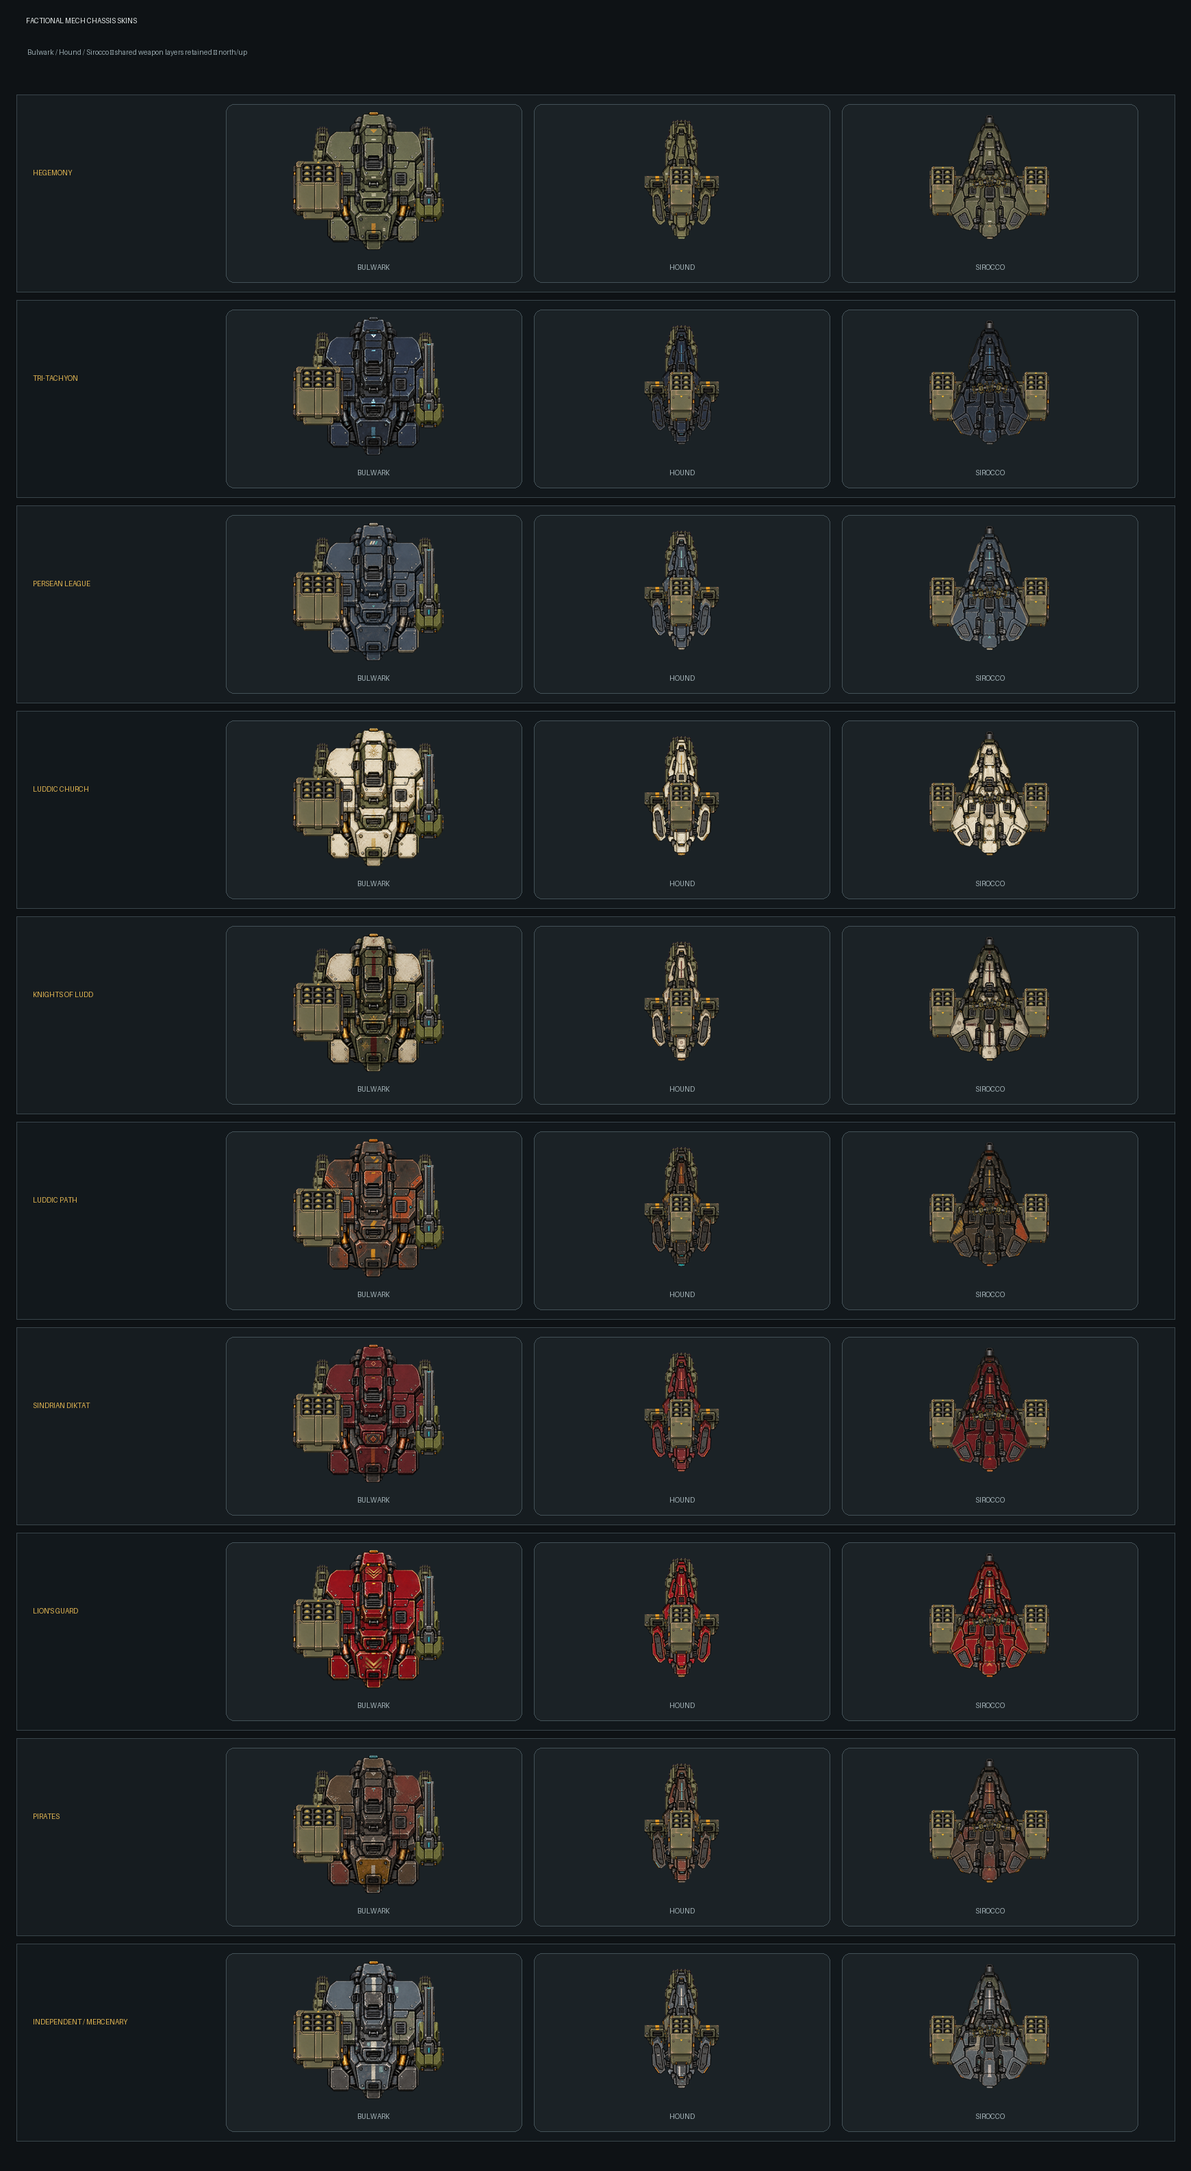
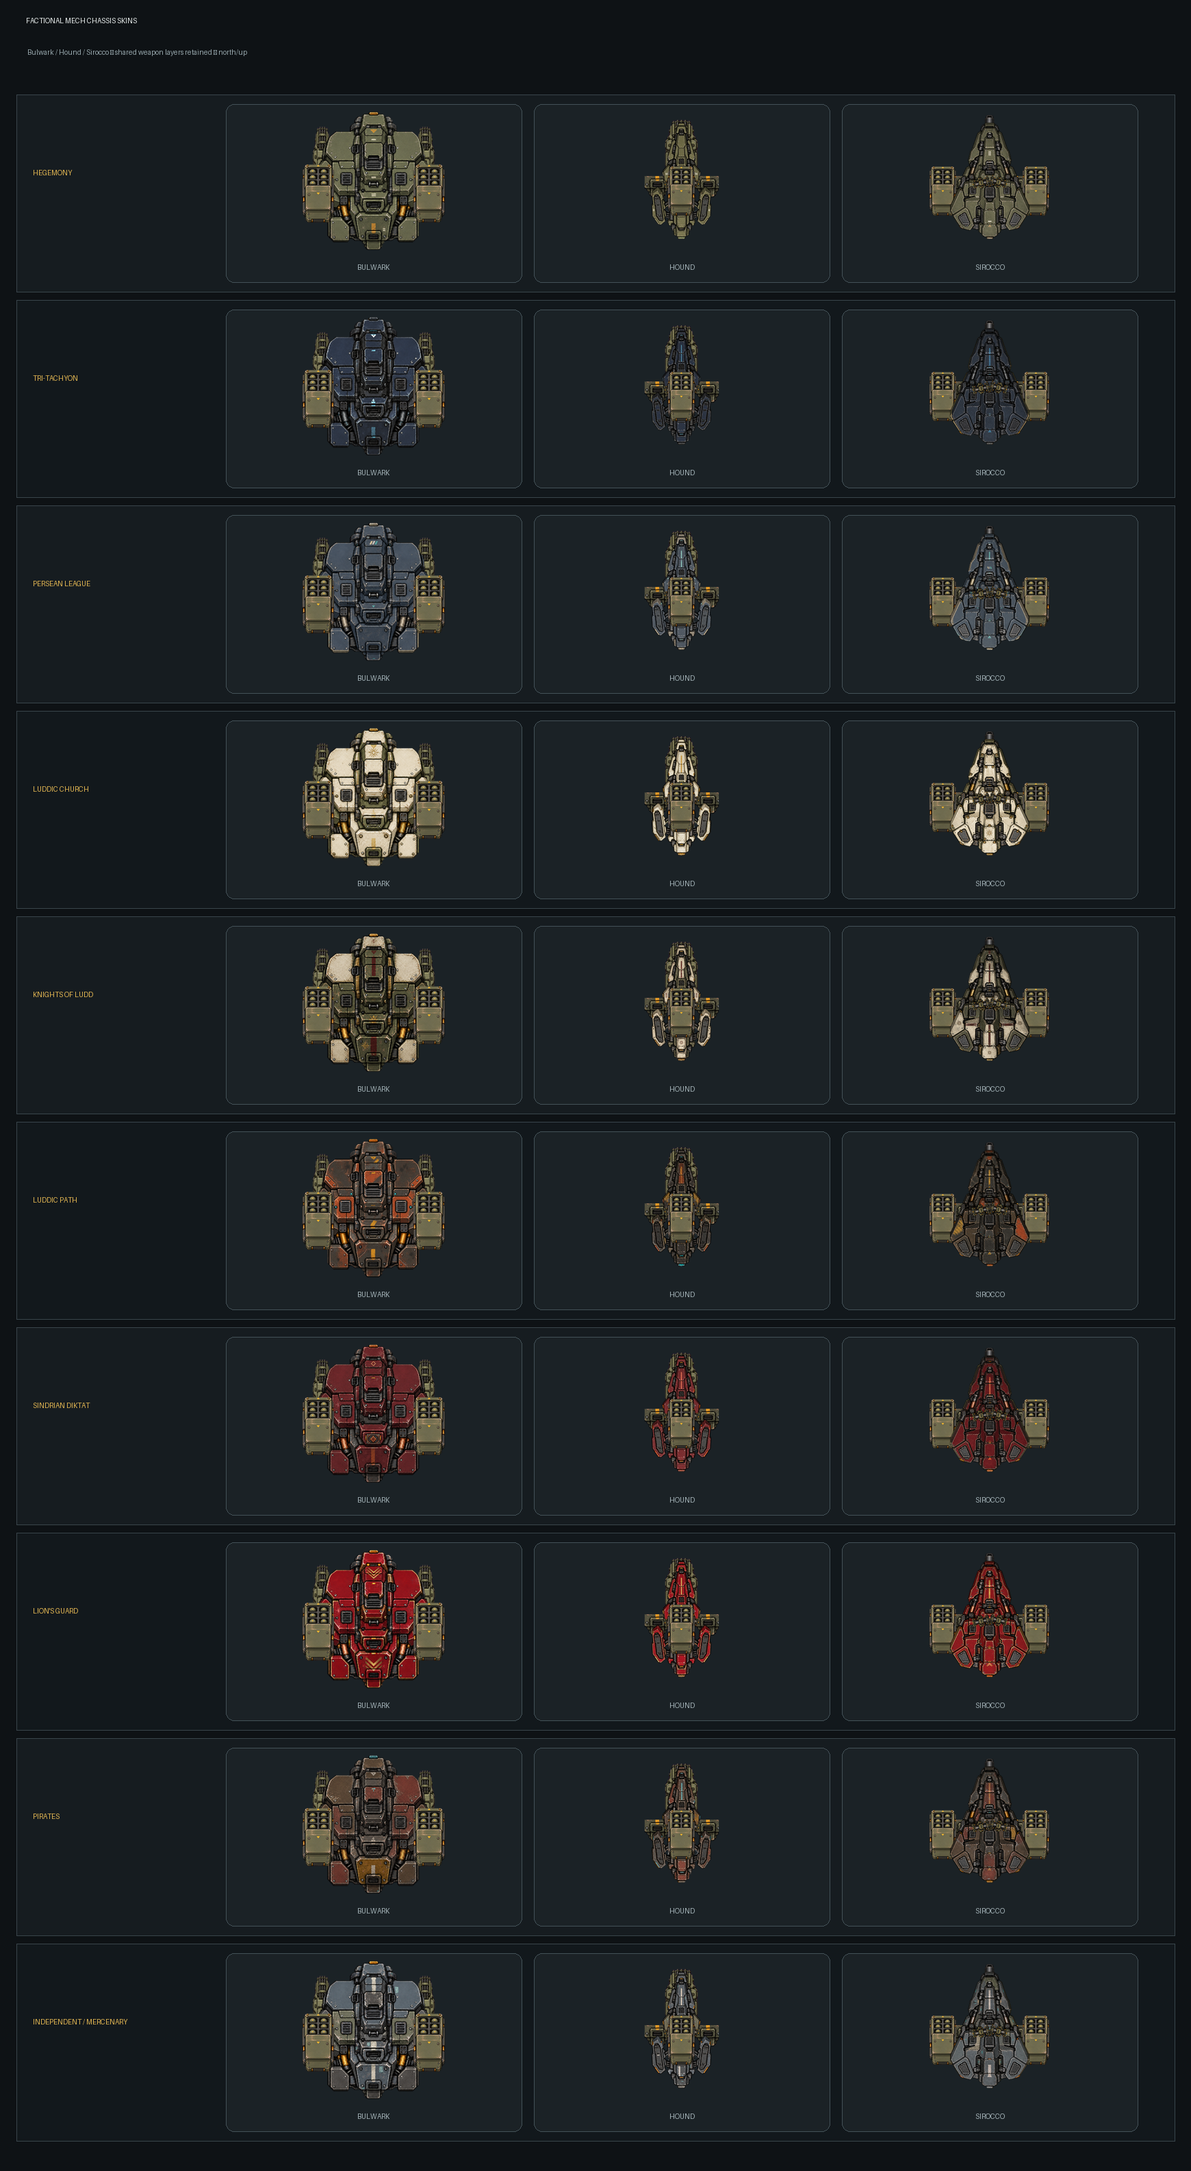
Add Tri-Tachyon rapid pulse mech arms

diff --git a/src/main/java/com/dillon/starsectormarines/ops/battleview/BattleSprites.java b/src/main/java/com/dillon/starsectormarines/ops/battleview/BattleSprites.java
@@ -705,18 +705,20 @@ public class BattleSprites {
         LayeredSpriteCache srm = loadLayeredSprite(root + "srm-pod.png");
         LayeredSpriteCache lrm = loadLayeredSprite(root + "lrm-pod.png");
         LayeredSpriteCache shoulderLaser = loadLayeredSprite(root + "shoulder-laser-cannon.png");
+        LayeredSpriteCache pulseLaserArm = loadLayeredSprite(root + "pulse-laser-arm.png");
         LayeredSpriteCache flash = loadLayeredSprite(
                 "graphics/battle/marine-modular-topdown/marine-muzzle-flash.png");
         if (chassis == null || socketedChassis == null || houndChassis == null
                 || siroccoChassis == null || foot == null || thighBone == null || arm == null
                 || linearCannon == null || heavyCannon == null
-                || srm == null || lrm == null || shoulderLaser == null || flash == null) {
+                || srm == null || lrm == null || shoulderLaser == null
+                || pulseLaserArm == null || flash == null) {
             LOG.warn("BattleSprites: modular mech layers incomplete; legacy heavy-mech sheet remains active");
             return;
         }
         layeredMechSprites = new LayeredMechAssets(chassis, socketedChassis,
                 houndChassis, siroccoChassis, foot, thighBone, arm, linearCannon, heavyCannon,
-                srm, lrm, shoulderLaser, flash);
+                srm, lrm, shoulderLaser, pulseLaserArm, flash);
         layeredMechLiveries.put(MechLivery.BASE, layeredMechSprites);
         for (MechLivery livery : MechLivery.values()) {
             if (livery == MechLivery.BASE) continue;
@@ -740,9 +742,11 @@ public class BattleSprites {
         LayeredSpriteCache srm = loadLayeredSprite(root + "srm-pod.png");
         LayeredSpriteCache lrm = loadLayeredSprite(root + "lrm-pod.png");
         LayeredSpriteCache shoulderLaser = loadLayeredSprite(root + "shoulder-laser-cannon.png");
+        LayeredSpriteCache pulseLaserArm = loadLayeredSprite(root + "pulse-laser-arm.png");
         if (chassis == null || houndChassis == null || siroccoChassis == null
                 || arm == null || linearCannon == null || heavyCannon == null
-                || srm == null || lrm == null || shoulderLaser == null) {
+                || srm == null || lrm == null || shoulderLaser == null
+                || pulseLaserArm == null) {
             LOG.warn("BattleSprites: modular mech livery " + livery
                     + " incomplete; actors using it keep the complete base set");
             return;
@@ -750,7 +754,7 @@ public class BattleSprites {
         layeredMechLiveries.put(livery, new LayeredMechAssets(
                 chassis, socketedChassis, houndChassis, siroccoChassis,
                 foot, thighBone, arm, linearCannon, heavyCannon,
-                srm, lrm, shoulderLaser, flash));
+                srm, lrm, shoulderLaser, pulseLaserArm, flash));
     }
 
     private void loadLayeredFamily(LayeredArmorFamily familyId, String family,

diff --git a/src/test/java/com/dillon/starsectormarines/ops/battleview/ShotRenderServiceTest.java b/src/test/java/com/dillon/starsectormarines/ops/battleview/ShotRenderServiceTest.java
@@ -122,6 +122,59 @@ class ShotRenderServiceTest {
     }
 
     @Test
+    void chaingunShellCarriesAReadableLongBallisticTracer() {
+        SpriteAPI fakeSprite = (SpriteAPI) Proxy.newProxyInstance(
+                SpriteAPI.class.getClassLoader(), new Class<?>[]{SpriteAPI.class},
+                (proxy, method, args) -> null);
+        BattleSprites sprites = new BattleSprites() {
+            @Override
+            public ShuttleSpriteCache projectileSprite(String path) {
+                return new ShuttleSpriteCache(fakeSprite, 1f);
+            }
+        };
+        BattleSimulation sim = openArena(20, 20);
+        WeaponDef chaingun = WeaponRegistry.require(WeaponRegistry.MECH_CHAINGUN_ID);
+        ShotEvent shot = new ShotEvent(5f, 5f, 15f, 5f, true,
+                Faction.MARINE, 1f, null, null, null, chaingun);
+        shot.lifetime = 0.5f;
+        sim.postShot(shot);
+        DrawList out = new DrawList();
+
+        new ShotRenderService(sprites, new ImpactFx()).collect(context(sim), out);
+
+        assertEquals(2, out.count(RenderLayer.SHOTS), "tracer plus physical shell");
+        DrawCommand tail = out.buffer(RenderLayer.SHOTS)[0];
+        assertEquals(DrawCommand.Kind.LINE, tail.kind());
+        assertEquals(1.10f * 32f, Math.abs(tail.width() - tail.centerX()), 1e-4f,
+                "the heavy automatic burst gets a longer readable tracer than a rifle");
+        assertEquals(2f, tail.angleDegrees(), EPS);
+    }
+
+    @Test
+    void rapidPulseLaserLeavesOnlyABriefOverlappingBeamPulse() {
+        WeaponDef laser = WeaponRegistry.require(WeaponRegistry.MECH_PULSE_LASER_ID);
+        ShotEvent shot = new ShotEvent(3f, 5f, 17f, 5f, true, Faction.MARINE, 0.10f,
+                null, null, null, laser);
+        BeamFxService beams = new BeamFxService();
+        beams.spawn(shot);
+        BattleCamera camera = context(openArena(20, 20)).camera;
+        DrawList initial = new DrawList();
+
+        beams.collect(camera, initial, 1f);
+
+        assertEquals(2, initial.count(RenderLayer.SHOTS), "cyan glow plus white-blue core");
+        assertEquals(7f, initial.buffer(RenderLayer.SHOTS)[0].angleDegrees(), EPS);
+        assertEquals(2f, initial.buffer(RenderLayer.SHOTS)[1].angleDegrees(), EPS);
+        assertEquals(0.12f, laser.beamStyle().lifetimeSec(), EPS);
+
+        beams.advance(0.13f);
+        DrawList expired = new DrawList();
+        beams.collect(camera, expired, 1f);
+        assertEquals(0, expired.count(RenderLayer.SHOTS),
+                "each pulse clears before the following burst reads as a continuous lance");
+    }
+
+    @Test
     void shoulderLaserLingersForOneSecondWithoutChangingItsShotClock() {
         WeaponDef laser = WeaponRegistry.require(WeaponRegistry.MECH_SHOULDER_LASER_ID);
         ShotEvent shot = new ShotEvent(3f, 5f, 17f, 5f, true, Faction.MARINE, 0.10f,

diff --git a/src/test/java/com/dillon/starsectormarines/ops/battleview/LayeredMechComposerTest.java b/src/test/java/com/dillon/starsectormarines/ops/battleview/LayeredMechComposerTest.java
@@ -134,6 +134,35 @@ class LayeredMechComposerTest {
     }
 
     @Test
+    void dualPulseLasersReuseThePairedArmMountsAndMuzzles() {
+        LayeredMechAssets assets = MechLabDollCanvas.headlessAssets();
+        List<Layer> layers = new ArrayList<>();
+        MechVariant variant = MechVariant.BULWARK;
+
+        LayeredMechComposer.emit((sprite, x, y, width, height, angle, alpha) ->
+                        layers.add(new Layer(sprite.sourcePath, x, y, width, height, angle)),
+                assets, 400f, 300f, 208f,
+                0f, 0f, 0f, 0f, 0f, 0f,
+                LayeredMechAppearance.FLAG_CHAINGUN_FLASH,
+                variant.chassisAppearance, LayeredMechAppearance.ARMS_PULSE_LASER,
+                variant.leftShoulder.appearanceSelector,
+                variant.rightShoulder.appearanceSelector, 1f);
+
+        List<Layer> pulseArms = layers.stream()
+                .filter(layer -> fileName(layer.path()).equals("pulse-laser-arm.png"))
+                .toList();
+        List<Layer> flashes = layers.stream()
+                .filter(layer -> fileName(layer.path()).equals("marine-muzzle-flash.png"))
+                .toList();
+        assertEquals(2, pulseArms.size());
+        assertEquals(2, flashes.size());
+        assertEquals(31f, pulseArms.get(0).width(), 0.001f);
+        assertEquals(400f - 0.37f * 208f, flashes.get(0).x(), 0.001f);
+        assertEquals(400f + 0.37f * 208f, flashes.get(1).x(), 0.001f);
+        assertEquals(300f + 0.39f * 208f, flashes.get(0).y(), 0.001f);
+    }
+
+    @Test
     void missileFlashPreservesWeaponFamilyLayerTreatment() {
         LayeredMechAssets assets = MechLabDollCanvas.headlessAssets();
         MechVariant variant = MechVariant.SIROCCO;

diff --git a/src/test/java/com/dillon/starsectormarines/battle/mech/MechWeaponLaunchOriginTest.java b/src/test/java/com/dillon/starsectormarines/battle/mech/MechWeaponLaunchOriginTest.java
@@ -43,6 +43,32 @@ class MechWeaponLaunchOriginTest {
     }
 
     @Test
+    void dualPulseLasersAlternateAcrossTheSameArmHardpoints() {
+        BattleSimulation sim = arena();
+        long mech = sim.spawn(MechVariant.BULWARK.applyTo(new EntitySpec(
+                "tri-tachyon bulwark", Faction.MARINE, UnitType.HEAVY_MECH, 8, 8)));
+        MechLoadoutComponent loadout = FactionMechLoadouts.create(
+                MechVariant.BULWARK, MechVariant.BULWARK.defaultRole, "tritachyon");
+        sim.world().attachMechLoadout(mech, loadout);
+        long target = sim.spawn(new EntitySpec(
+                "target", Faction.DEFENDER, UnitType.MARINE, 8, 20));
+        loadout.torsoFacingDegrees = 0f;
+        MechWeaponMount arms = loadout.mount(MechMountSlot.ARMS);
+
+        sim.fireMechWeapon(mech, target, arms, 1f);
+        ShotEvent first = sim.getActiveShots().get(0);
+        arms.burstRemaining = arms.component.projectilesPerTrigger - 1;
+        sim.fireMechWeapon(mech, target, arms, 1f);
+        ShotEvent second = sim.getActiveShots().get(1);
+
+        float hullWidth = LayeredMechAppearance.hullWidthCells(loadout.variant.renderScale);
+        assertEquals(sim.world().renderX(mech) - 0.37f * hullWidth, first.fromX, EPS);
+        assertEquals(sim.world().renderX(mech) + 0.37f * hullWidth, second.fromX, EPS);
+        assertEquals(sim.world().renderY(mech) + 0.39f * hullWidth, first.fromY, EPS);
+        assertEquals(first.fromY, second.fromY, EPS);
+    }
+
+    @Test
     void missileShotAndProjectileStartAtTheInstalledShoulderPod() {
         BattleSimulation sim = arena();
         long mech = spawnBulwark(sim, 8, 8);

diff --git a/src/test/java/com/dillon/starsectormarines/battle/mech/MechVariantTest.java b/src/test/java/com/dillon/starsectormarines/battle/mech/MechVariantTest.java
@@ -99,20 +99,26 @@ class MechVariantTest {
     }
 
     @Test
-    void triTachyonDoctrineReplacesOnlyTheBulwarksRightMissileRack() {
+    void triTachyonDoctrineFieldsPulseArmsAndTheRightShoulderLance() {
         MechLoadoutComponent triTachyon = FactionMechLoadouts.create(
                 MechVariant.BULWARK, null, "tritachyon");
         MechLoadoutComponent independent = FactionMechLoadouts.create(
                 MechVariant.BULWARK, null, "independent");
 
+        assertSame(MechWeaponComponent.DUAL_PULSE_LASERS,
+                triTachyon.mount(MechMountSlot.ARMS).component);
         assertSame(MechWeaponComponent.SRM_15,
                 triTachyon.mount(MechMountSlot.LEFT_SHOULDER).component);
         assertSame(MechWeaponComponent.SHOULDER_LASER_CANNON,
                 triTachyon.mount(MechMountSlot.RIGHT_SHOULDER).component);
         assertTrue(triTachyon.hasWeapon(WeaponRegistry.MECH_SHOULDER_LASER_ID));
+        assertTrue(triTachyon.hasWeapon(WeaponRegistry.MECH_PULSE_LASER_ID));
+        assertSame(MechWeaponComponent.DUAL_CHAINGUNS,
+                independent.mount(MechMountSlot.ARMS).component);
         assertSame(MechWeaponComponent.SRM_15,
                 independent.mount(MechMountSlot.RIGHT_SHOULDER).component);
         assertFalse(independent.hasWeapon(WeaponRegistry.MECH_SHOULDER_LASER_ID));
+        assertFalse(independent.hasWeapon(WeaponRegistry.MECH_PULSE_LASER_ID));
 
         BattleSimulation sim = arena();
         long bulwark = sim.spawn(MechVariant.BULWARK.applyTo(new EntitySpec(

diff --git a/src/main/java/com/dillon/starsectormarines/ops/battleview/LayeredMechComposer.java b/src/main/java/com/dillon/starsectormarines/ops/battleview/LayeredMechComposer.java
@@ -261,6 +261,11 @@ final class LayeredMechComposer {
         } else if (arms == LayeredMechAppearance.ARMS_HEAVY_CANNON) {
             emitFromRearPivot(out, assets.heavyCannon, actorX, actorY, hullWidth, facingDeg,
                     0f, -0.05f, 1f, 0f, alpha);
+        } else if (arms == LayeredMechAppearance.ARMS_PULSE_LASER) {
+            emitFromRearPivot(out, assets.pulseLaserArm, actorX, actorY, hullWidth, facingDeg,
+                    -0.37f, -0.15f + kick, 0.5f, 0f, alpha);
+            emitFromRearPivot(out, assets.pulseLaserArm, actorX, actorY, hullWidth, facingDeg,
+                    0.37f, -0.15f + kick, 0.5f, 0f, alpha);
         }
     }
 
@@ -286,7 +291,8 @@ final class LayeredMechComposer {
         emitCentered(out, assets.muzzleFlash, actorX, actorY, hullWidth, facingDeg,
                 primary.xHullWidths(), primary.yHullWidths() - recoil, 0f, alpha);
         if (arms == LayeredMechAppearance.ARMS_CHAINGUN
-                || arms == LayeredMechAppearance.ARMS_LINEAR_CANNON) {
+                || arms == LayeredMechAppearance.ARMS_LINEAR_CANNON
+                || arms == LayeredMechAppearance.ARMS_PULSE_LASER) {
             MechHardpointGeometry.LocalPoint secondary =
                     MechHardpointGeometry.armsMuzzle(arms, 1);
             emitCentered(out, assets.muzzleFlash, actorX, actorY, hullWidth, facingDeg,

diff --git a/src/test/java/com/dillon/starsectormarines/battle/weapon/WeaponRegistryParityTest.java b/src/test/java/com/dillon/starsectormarines/battle/weapon/WeaponRegistryParityTest.java
@@ -70,8 +70,18 @@ class WeaponRegistryParityTest {
                 0.6f, 3, 0f, false, false, 1f,
                 new Color(0xFF, 0xE8, 0xC0), ImpactKind.KINETIC,
                 "graphics/missiles/shell_small_yellow.png", 0.18f, "chaingun_fire");
-        assertEquals(0.55f,
+        assertEquals(1.10f,
                 WeaponRegistry.require(WeaponRegistry.MECH_CHAINGUN_ID).tracerTailCells(), EPS);
+        WeaponDef pulseLaser = WeaponRegistry.require(WeaponRegistry.MECH_PULSE_LASER_ID);
+        assertMech(pulseLaser,
+                32f, 18f, 0.72f, 2.1f, 9f,
+                8, 0.075f, 0.55f, 320f, 0.10f, 0f,
+                0.35f, 3, 0f, false, false, 1f,
+                new Color(0xD8, 0xFC, 0xFF), ImpactKind.RIFLE,
+                null, 0f, "pulse_laser_fire");
+        assertEquals(2f, pulseLaser.beamStyle().coreWidthPx(), EPS);
+        assertEquals(7f, pulseLaser.beamStyle().glowWidthPx(), EPS);
+        assertEquals(0.12f, pulseLaser.beamStyle().lifetimeSec(), EPS);
         assertMech(WeaponRegistry.require(WeaponRegistry.MECH_LINEAR_CANNON_ID),
                 32f, 27f, 0.68f, 2.8f, 8f,
                 2, 0.12f, 0.35f, 160f, 0.20f, 0f,

diff --git a/src/main/java/com/dillon/starsectormarines/ops/battleview/LayeredMechAssets.java b/src/main/java/com/dillon/starsectormarines/ops/battleview/LayeredMechAssets.java
@@ -14,6 +14,7 @@ public final class LayeredMechAssets {
     public final LayeredSpriteCache srmPod;
     public final LayeredSpriteCache lrmPod;
     public final LayeredSpriteCache shoulderLaser;
+    public final LayeredSpriteCache pulseLaserArm;
     public final LayeredSpriteCache muzzleFlash;
 
     public LayeredMechAssets(LayeredSpriteCache chassis, LayeredSpriteCache socketedChassis,
@@ -25,6 +26,7 @@ public final class LayeredMechAssets {
                              LayeredSpriteCache srmPod,
                              LayeredSpriteCache lrmPod,
                              LayeredSpriteCache shoulderLaser,
+                             LayeredSpriteCache pulseLaserArm,
                              LayeredSpriteCache muzzleFlash) {
         this.chassis = chassis;
         this.socketedChassis = socketedChassis;
@@ -38,6 +40,7 @@ public final class LayeredMechAssets {
         this.srmPod = srmPod;
         this.lrmPod = lrmPod;
         this.shoulderLaser = shoulderLaser;
+        this.pulseLaserArm = pulseLaserArm;
         this.muzzleFlash = muzzleFlash;
     }
 }

diff --git a/art-source/mech-modular-topdown/render_faction_weapon_variants.py b/art-source/mech-modular-topdown/render_faction_weapon_variants.py
@@ -53,6 +53,14 @@ def main() -> None:
                   fill=(225, 181, 81))
 
         for column, variant in enumerate(VARIANTS):
+            if folder == "tri-tachyon" and variant.name == "BULWARK":
+                variant = replace(
+                    variant,
+                    arms="pulse-laser-arm.png",
+                    left_pod="srm-pod.png",
+                    right_pod="shoulder-laser-cannon.png",
+                    loadout="DUAL PULSE LASERS  /  SRM-15  /  SHOULDER LASER",
+                )
             skinned = replace(
                 variant,
                 chassis=faction_path(folder, variant.chassis),

diff --git a/src/test/java/com/dillon/starsectormarines/ops/battleview/LayeredMechAssetTest.java b/src/test/java/com/dillon/starsectormarines/ops/battleview/LayeredMechAssetTest.java
@@ -29,7 +29,8 @@ class LayeredMechAssetTest {
             new SpriteSpec("heavy-cannon.png", 64, 128, 2_500),
             new SpriteSpec("srm-pod.png", 62, 88, 2_500),
             new SpriteSpec("lrm-pod.png", 76, 96, 2_500),
-            new SpriteSpec("shoulder-laser-cannon.png", 76, 128, 2_500)
+            new SpriteSpec("shoulder-laser-cannon.png", 76, 128, 2_500),
+            new SpriteSpec("pulse-laser-arm.png", 62, 112, 2_500)
     };
 
     private record SpriteSpec(String filename, int width, int height, int minimumVisiblePixels) {

diff --git a/src/test/java/com/dillon/starsectormarines/ops/battleview/BattleSpritesMechLiveryTest.java b/src/test/java/com/dillon/starsectormarines/ops/battleview/BattleSpritesMechLiveryTest.java
@@ -20,6 +20,8 @@ class BattleSpritesMechLiveryTest {
                 marine.houndChassis.sourcePath);
         assertEquals(factionPath("tri-tachyon", "linear-cannon-variant.png"),
                 marine.linearCannon.sourcePath);
+        assertEquals(factionPath("tri-tachyon", "pulse-laser-arm.png"),
+                marine.pulseLaserArm.sourcePath);
         assertEquals(factionPath("lions-guard", "chassis-sirocco.png"),
                 defender.siroccoChassis.sourcePath);
         assertEquals(factionPath("lions-guard", "lrm-pod.png"),

diff --git a/src/main/java/com/dillon/starsectormarines/battle/mech/MechWeaponComponent.java b/src/main/java/com/dillon/starsectormarines/battle/mech/MechWeaponComponent.java
@@ -21,6 +21,8 @@ public enum MechWeaponComponent {
             2, -1, LayeredMechAppearance.ARMS_LINEAR_CANNON),
     SINGLE_HEAVY_CANNON("Heavy cannon", MountFamily.ARMS, "weapon.mech-heavy-cannon",
             1, -1, LayeredMechAppearance.ARMS_HEAVY_CANNON),
+    DUAL_PULSE_LASERS("Dual pulse lasers", MountFamily.ARMS, "weapon.mech-pulse-laser",
+            8, -1, LayeredMechAppearance.ARMS_PULSE_LASER),
 
     SRM_5("SRM-5", MountFamily.SHOULDER, "weapon.mech-srm-pod",
             2, 6, LayeredMechAppearance.POD_SMALL_SRM),
